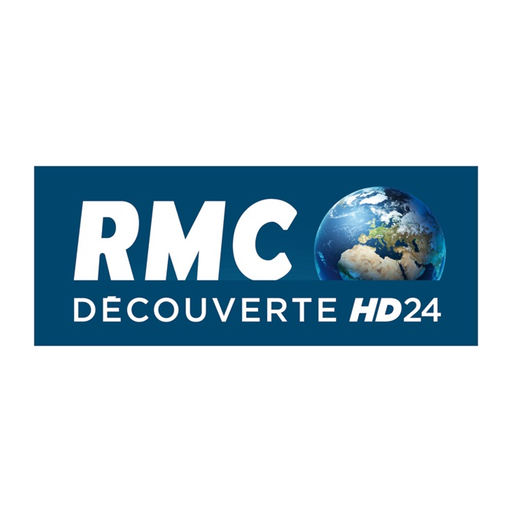
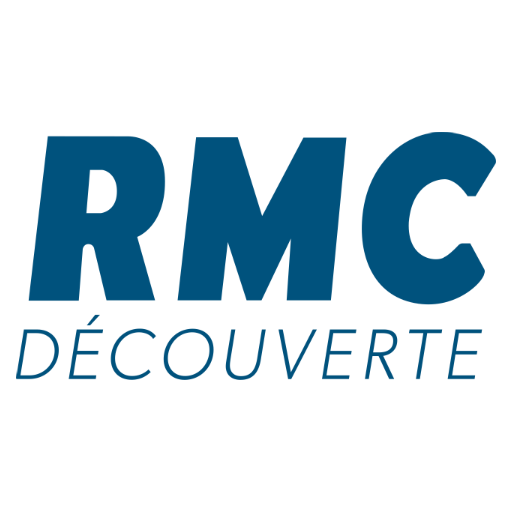
Update PNG of RMC Decouverte

Changed region(s): [[0.0312, 0.25, 0.9688, 0.75]]

diff --git a/resources/lib/root/channels/fr/live_tv_fr.py b/resources/lib/root/channels/fr/live_tv_fr.py
@@ -102,7 +102,7 @@ XMLTV_CHANNEL_ID = {
     'france-o': 'C160.api.telerama.fr',
     'tf1-series-films': 'C1404.api.telerama.fr',
     'lequipe': 'C1401.api.telerama.fr',
-    'rmcstory': 'C1402.api.telerama.fr',
+    'rmcstory': '',
     'cherie25': 'C1399.api.telerama.fr',
     'la_1ere': LIVE_LA_1ERE[common.PLUGIN.get_setting(
         'la_1ere.region')],

diff --git a/resources/lib/skeleton.py b/resources/lib/skeleton.py
@@ -652,7 +652,7 @@ LABELS = {
     'xtra': 'Xtra (MYTF1)',
     'lci': 'LCI',
     'lcp': 'LCP Assemblée Nationale',
-    'rmcdecouverte': 'RMC Découverte HD24',
+    'rmcdecouverte': 'RMC Découverte',
     'stories': 'Stories (6play)',
     'comedy': 'Comic (6play)',
     'fun_radio': 'Fun Radio',
